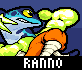
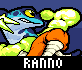
style further

diff --git a/static/style.css b/static/style.css
@@ -358,16 +358,6 @@ article h4 {
 }
 
 @media only screen and (max-width:40rem) {
-  .navbar {
-    position: sticky;
-    position: -webkit-sticky;
-    top: 0;
-  }
-
-  html {
-    scroll-padding-top: var(--nav-height);
-  }
-
   .data-disable-scroll-mobile {
     height: 100%;
     overflow: hidden;
@@ -667,7 +657,8 @@ article h4 {
 
 .library-select li a img {
   border: .25rem solid var(--clr-text-hc);
-  border-bottom: .125rem solid var(--clr-text-hc);
+  border-bottom: 1px solid var(--clr-text-hc);
+  border-radius: .25rem;
   max-width: 100%;
   height: auto;
 }
@@ -676,6 +667,11 @@ article h4 {
   .library-select li:hover {
     transform: scale(1.02);
     transition: transform .05s ease-in;
+  }
+
+  .library-select li:active {
+    transform: scale(.99);
+    transition: transform: .05s linear;
   }
 }
 

diff --git a/layouts/library/list.html b/layouts/library/list.html
@@ -23,7 +23,7 @@
             <img aria-hidden="true" src="https://rivals.academy/img/library-select/2x_{{ . }}.png">
           </div></a></li>
         {{ end }}
-        <li><a href="/library/stages">Stages</a></li>
+        {{/*  <li><a href="/library/stages">Stages</a></li>  */}}
       </ul>
     </div>
   </main>
